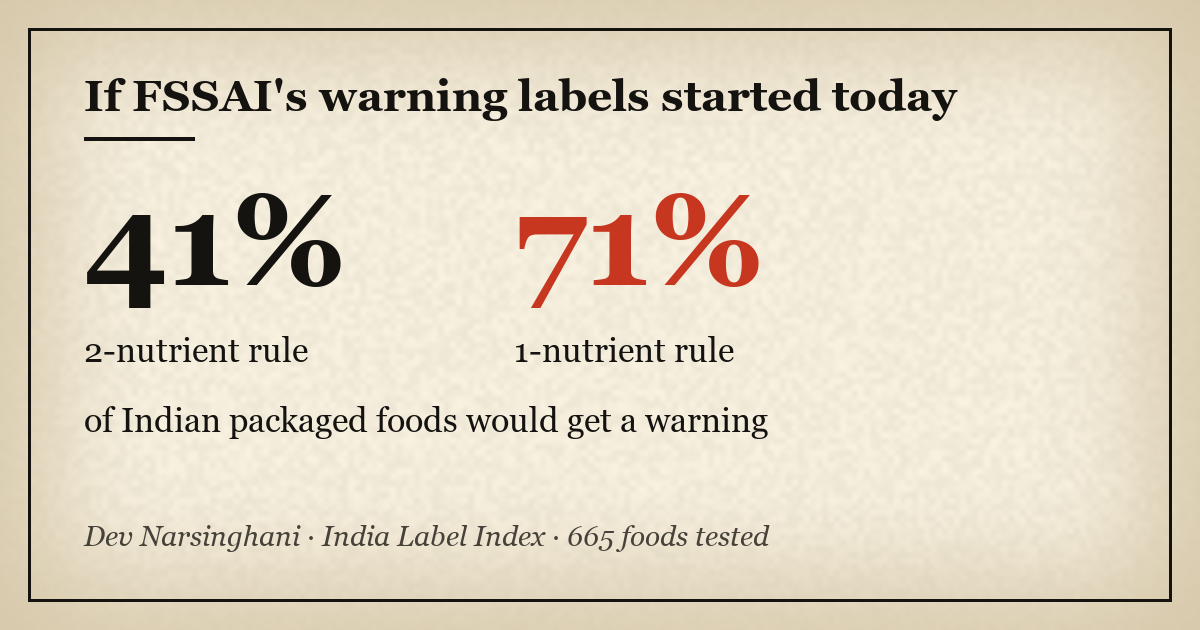
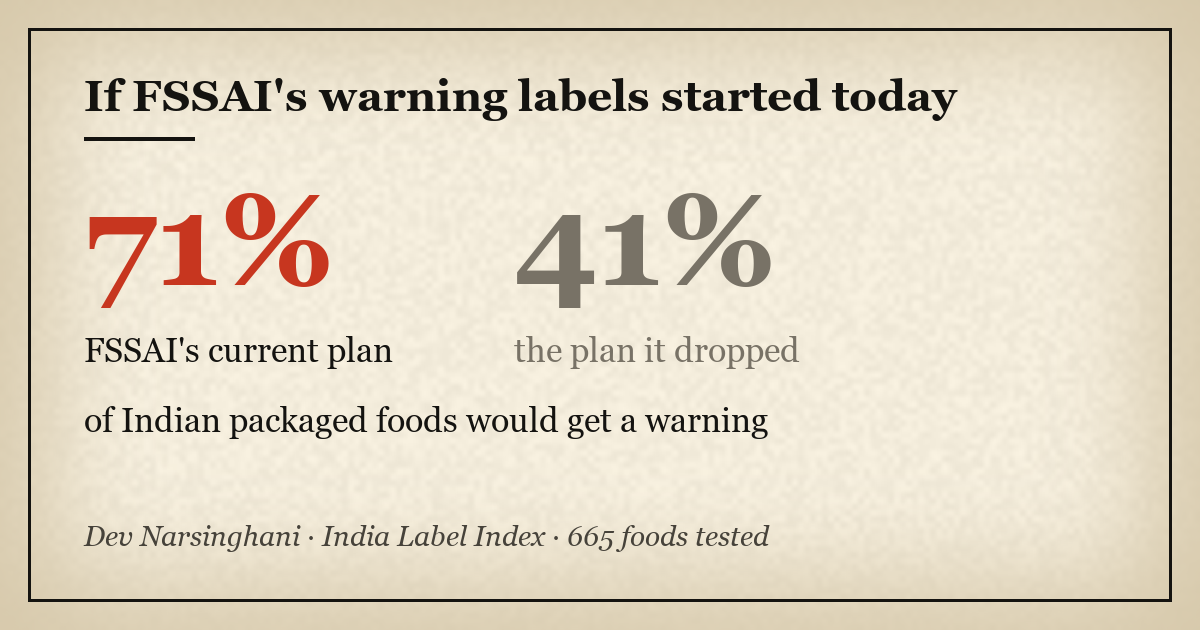
Study 3: reframe on FSSAI's 23 Sep single-nutrient plan (71% now, 41% under the dropped plan)

diff --git a/india-label-index/fssai-warning-labels/index.html b/india-label-index/fssai-warning-labels/index.html
@@ -4,19 +4,19 @@
 <meta charset="utf-8">
 <meta name="viewport" content="width=device-width, initial-scale=1">
 <title>If FSSAI's warning labels started today | India Label Index</title>
-<meta name="description" content="Under Phase I, where a food needs 2 or more high nutrients, 41% of the 665 foods I tested would get a warning. Under Phase II, where 1 high nutrient is enough, 71% would.">
+<meta name="description" content="71% of the 665 foods I tested. That is under FSSAI&#x27;s current plan, where a food high in any one of added sugar, added fat or salt gets the warning. Under its first plan, which needed 2 or more, it would have been 41%.">
 <meta name="author" content="Dev Narsinghani">
 <link rel="canonical" href="https://devnarsinghani22.github.io/india-label-index/fssai-warning-labels/">
 <meta property="og:type" content="article">
 <meta property="og:site_name" content="Dev Narsinghani">
 <meta property="og:locale" content="en_IN">
-<meta property="og:title" content="If FSSAI&#x27;s warning labels started today: the 2-nutrient rule would warn on 41% of packaged foods, the 1-nutrient rule on 71%">
-<meta property="og:description" content="Under Phase I, where a food needs 2 or more high nutrients, 41% of the 665 foods I tested would get a warning. Under Phase II, where 1 high nutrient is enough, 71% would.">
+<meta property="og:title" content="If FSSAI&#x27;s warning labels started today: 7 in 10 Indian packaged foods would carry a warning">
+<meta property="og:description" content="71% of the 665 foods I tested. That is under FSSAI&#x27;s current plan, where a food high in any one of added sugar, added fat or salt gets the warning. Under its first plan, which needed 2 or more, it would have been 41%.">
 <meta property="og:url" content="https://devnarsinghani22.github.io/india-label-index/fssai-warning-labels/">
 <meta property="og:image" content="https://devnarsinghani22.github.io/india-label-index/fssai-warning-labels/og.png">
 <meta property="og:image:width" content="1200">
 <meta property="og:image:height" content="630">
-<meta property="og:image:alt" content="If FSSAI&#x27;s warning labels started today. the 2-nutrient rule would warn on 41% of packaged foods, the 1-nutrient rule on 71%.">
+<meta property="og:image:alt" content="If FSSAI&#x27;s warning labels started today. 7 in 10 Indian packaged foods would carry a warning.">
 <meta property="article:published_time" content="2026-10-01T09:00:00+05:30">
 <style>
 .stats{display:grid;grid-template-columns:repeat(auto-fit,minmax(150px,1fr));gap:12px;margin:24px 0}
@@ -36,8 +36,8 @@ table.data th:first-child,table.data td:first-child{text-align:left;white-space:
 .cite{border-left:3px solid var(--acc);padding:8px 14px;font:14px/1.5 system-ui,sans-serif}
 </style>
 <meta name="twitter:card" content="summary_large_image">
-<meta name="twitter:title" content="If FSSAI&#x27;s warning labels started today: the 2-nutrient rule would warn on 41% of packaged foods, the 1-nutrient rule on 71%">
-<meta name="twitter:description" content="Under Phase I, where a food needs 2 or more high nutrients, 41% of the 665 foods I tested would get a warning. Under Phase II, where 1 high nutrient is enough, 71% would.">
+<meta name="twitter:title" content="If FSSAI&#x27;s warning labels started today: 7 in 10 Indian packaged foods would carry a warning">
+<meta name="twitter:description" content="71% of the 665 foods I tested. That is under FSSAI&#x27;s current plan, where a food high in any one of added sugar, added fat or salt gets the warning. Under its first plan, which needed 2 or more, it would have been 41%.">
 <meta name="twitter:image" content="https://devnarsinghani22.github.io/india-label-index/fssai-warning-labels/og.png">
 <link rel="icon" href="/favicon.ico" sizes="32x32">
 <link rel="icon" href="/favicon.svg" type="image/svg+xml">
@@ -51,7 +51,7 @@ table.data th:first-child,table.data td:first-child{text-align:left;white-space:
     {
       "@type": "Article",
       "@id": "https://devnarsinghani22.github.io/india-label-index/fssai-warning-labels/#article",
-      "headline": "If FSSAI's warning labels started today: the 2-nutrient rule would warn on 41% of packaged foods, the 1-nutrient rule on 71%",
+      "headline": "If FSSAI's warning labels started today: 7 in 10 Indian packaged foods would carry a warning",
       "url": "https://devnarsinghani22.github.io/india-label-index/fssai-warning-labels/",
       "mainEntityOfPage": {
         "@type": "WebPage",
@@ -78,7 +78,8 @@ table.data th:first-child,table.data td:first-child{text-align:left;white-space:
       },
       "citation": [
         "https://www.livelaw.in/amp/top-stories/adopting-canadian-model-on-warning-labels-for-packaged-foods-high-in-fat-sugar-or-salt-fssai-informs-supreme-court-551972",
-        "https://www.business-standard.com/india-news/sc-seeks-fssai-clarity-on-ultra-processed-foods-fopl-nutrient-thresholds-126091101217_1.html"
+        "https://www.business-standard.com/india-news/sc-seeks-fssai-clarity-on-ultra-processed-foods-fopl-nutrient-thresholds-126091101217_1.html",
+        "https://theprint.in/health/fssai-tells-sc-it-will-introduce-front-of-pack-warnings-in-single-phase-gives-food-firms-1-yr-to-comply/3051546/"
       ],
       "about": [
         "Front-of-pack nutrition labelling in India",
@@ -97,20 +98,20 @@ table.data th:first-child,table.data td:first-child{text-align:left;white-space:
           "name": "How many Indian packaged foods would get FSSAI's proposed warning?",
           "acceptedAnswer": {
             "@type": "Answer",
-            "text": "Under Phase I, where a food needs 2 or more high nutrients, 41% of the 665 foods I tested would get a warning. Under Phase II, where 1 high nutrient is enough, 71% would."
+            "text": "71% of the 665 foods I tested. That is under FSSAI's current plan, where a food high in any one of added sugar, added fat or salt gets the warning. Under its first plan, which needed 2 or more, it would have been 41%."
           }
         },
         {
           "@type": "Question",
-          "name": "What does the 2-nutrient rule miss?",
+          "name": "What did the switch to a single nutrient change?",
           "acceptedAnswer": {
             "@type": "Answer",
-            "text": "About 30 in every 100 packaged foods are high in one of added sugar, added fat or salt but would carry no warning in Phase I. Soft drinks are the clearest case: 69% are high in added sugar, but only 3% would get a warning, because sugar is their only high nutrient."
+            "text": "It added about 30 in every 100 packaged foods: the ones high in just one thing. Soft drinks are the clearest case: 69% are high in added sugar, but only 3% would have been warned under the 2-nutrient plan, because sugar is their only high nutrient."
           }
         },
         {
           "@type": "Question",
-          "name": "Which foods change most between the two rules?",
+          "name": "Which foods change most between the two plans?",
           "acceptedAnswer": {
             "@type": "Answer",
             "text": "Foods that are high in just one thing. Soft drinks go from 3% to 69%. Yoghurt and curd go from 3% to 38%. Biscuits and chips barely change, because most are already high in two things."
@@ -167,27 +168,27 @@ table.data th:first-child,table.data td:first-child{text-align:left;white-space:
   <article class="guide">
     <p class="meta"><a href="https://devnarsinghani22.github.io/india-label-index/">India Label Index 2026</a> / FSSAI warning labels</p>
     <h1>If FSSAI's warning labels started today</h1>
-    <p class="dek">FSSAI wants red warnings on packaged food that is high in added sugar, added fat or salt. First only when 2 of them are high, later when any 1 is. The Supreme Court asked whether 2 is too many. So I ran both rules on Indian labels.</p>
+    <p class="dek">FSSAI wants red warnings on packaged food high in added sugar, added fat or salt. It first proposed a warning only when 2 were high. After the Supreme Court asked why, it said on 23 September that 1 is enough. I ran both on Indian labels.</p>
     <p class="byline">By <a href="/" rel="author">Dev Narsinghani</a>. He writes about food labels, sleep and AI for marketing.</p>
     <p class="meta">Published <time datetime="2026-10-01">1 October 2026</time> · 665 Indian packaged foods with a full nutrition table and ingredient list</p>
     <div class="body">
     <div class="stats">
-<div class="stat"><b>41%</b><span>would get a warning under Phase I (2 or more nutrients high)</span></div>
-<div class="stat"><b>71%</b><span>would get one under Phase II (any 1 nutrient high)</span></div>
-<div class="stat"><b>3%</b><span>of soft drinks would get one in Phase I, though 69% are high in added sugar</span></div>
+<div class="stat"><b>71%</b><span>would carry a warning under FSSAI's current plan (any 1 nutrient high)</span></div>
+<div class="stat"><b>41%</b><span>under the plan it dropped on 23 September (2 or more high)</span></div>
+<div class="stat"><b>3% to 69%</b><span>of soft drinks warned, old plan to new plan</span></div>
     </div>
     <h2 id="answers">Quick answers</h2>
 <h3>How many Indian packaged foods would get FSSAI's proposed warning?</h3>
-<p>Under Phase I, where a food needs 2 or more high nutrients, 41% of the 665 foods I tested would get a warning. Under Phase II, where 1 high nutrient is enough, 71% would.</p>
-<h3>What does the 2-nutrient rule miss?</h3>
-<p>About 30 in every 100 packaged foods are high in one of added sugar, added fat or salt but would carry no warning in Phase I. Soft drinks are the clearest case: 69% are high in added sugar, but only 3% would get a warning, because sugar is their only high nutrient.</p>
-<h3>Which foods change most between the two rules?</h3>
+<p>71% of the 665 foods I tested. That is under FSSAI's current plan, where a food high in any one of added sugar, added fat or salt gets the warning. Under its first plan, which needed 2 or more, it would have been 41%.</p>
+<h3>What did the switch to a single nutrient change?</h3>
+<p>It added about 30 in every 100 packaged foods: the ones high in just one thing. Soft drinks are the clearest case: 69% are high in added sugar, but only 3% would have been warned under the 2-nutrient plan, because sugar is their only high nutrient.</p>
+<h3>Which foods change most between the two plans?</h3>
 <p>Foods that are high in just one thing. Soft drinks go from 3% to 69%. Yoghurt and curd go from 3% to 38%. Biscuits and chips barely change, because most are already high in two things.</p>
 <h3>Which nutrient is high most often?</h3>
 <p>Added sugar, in 45% of foods. Added fat is high in 43% and salt in 33%.</p>
 <h3>What limits does FSSAI propose?</h3>
 <p>FSSAI told the Supreme Court it would use the ICMR-NIN 2024 limits. For a solid food, per 100 g: 3 g added sugar, 4.2 g added fat, 625 mg salt. For a drink, per 100 ml: 2 g, 1.5 g and 175 mg.</p>
-    <figure class="chart"><figcaption><strong>Share that would get a warning once any 1 high nutrient is enough (Phase II)</strong></figcaption><svg class="bars" viewBox="0 0 640 248" role="img" aria-label="Share of products high in at least one of added sugar, added fat or salt under FSSAI&#x27;s proposed limits, by category" preserveAspectRatio="xMinYMin meet">
+    <figure class="chart"><figcaption><strong>Share that would carry a warning under FSSAI's current plan (any 1 nutrient high)</strong></figcaption><svg class="bars" viewBox="0 0 640 248" role="img" aria-label="Share of products high in at least one of added sugar, added fat or salt under FSSAI&#x27;s proposed limits, by category" preserveAspectRatio="xMinYMin meet">
 <g><title>Biscuits and cookies: 98% (from 55 products)</title><text x="240" y="19.4" text-anchor="end" class="lbl">Biscuits and cookies</text><rect x="250" y="4" width="323.4" height="22" rx="4" class="bar"/><text x="579.4" y="19.4" class="val">98%</text></g>
 <g><title>Chocolate and confectionery: 96% (from 48 products)</title><text x="240" y="49.4" text-anchor="end" class="lbl">Chocolate and confectionery</text><rect x="250" y="34" width="316.8" height="22" rx="4" class="bar"/><text x="572.8" y="49.4" class="val">96%</text></g>
 <g><title>Chips and crisps: 94% (from 34 products)</title><text x="240" y="79.4" text-anchor="end" class="lbl">Chips and crisps</text><rect x="250" y="64" width="310.2" height="22" rx="4" class="bar"/><text x="566.2" y="79.4" class="val">94%</text></g>
@@ -197,8 +198,8 @@ table.data th:first-child,table.data td:first-child{text-align:left;white-space:
 <g><title>Yoghurt and curd: 38% (from 90 products)</title><text x="240" y="199.4" text-anchor="end" class="lbl">Yoghurt and curd</text><rect x="250" y="184" width="125.4" height="22" rx="4" class="bar"/><text x="381.4" y="199.4" class="val">38%</text></g>
 <g><title>Flours, grains and pulses: 22% (from 32 products)</title><text x="240" y="229.4" text-anchor="end" class="lbl">Flours, grains and pulses</text><rect x="250" y="214" width="72.6" height="22" rx="4" class="bar"/><text x="328.6" y="229.4" class="val">22%</text></g>
 </svg><p class="meta">Categories with at least 30 products that could be tested. From 665 foods in all.</p></figure>
-    <h2 id="phases">Phase I against Phase II, by category</h2>
-    <div class="tablewrap"><table class="data"><tr><th>Category</th><th>Foods tested</th><th>Phase I (2+ high)</th><th>Phase II (any 1 high)</th></tr>
+    <h2 id="phases">Old plan against current plan, by category</h2>
+    <div class="tablewrap"><table class="data"><tr><th>Category</th><th>Foods tested</th><th>Dropped plan (2+ high)</th><th>Current plan (any 1 high)</th></tr>
 <tr><td>Biscuits and cookies</td><td>55</td><td>93%</td><td>98%</td></tr>
 <tr><td>Chocolate and confectionery</td><td>48</td><td>79%</td><td>96%</td></tr>
 <tr><td>Chips and crisps</td><td>34</td><td>91%</td><td>94%</td></tr>
@@ -219,7 +220,8 @@ table.data th:first-child,table.data td:first-child{text-align:left;white-space:
     <p>Added sugar is the number the label itself declares; Indian labels must print it, and 682 of the foods had it. Where it was missing, I used total sugar, but only if a sugar was in the ingredient list. Added fat is total fat when an oil or fat is in the list. Salt counts when salt is in the list. Oils, ghee, flours, spices and tea are left out, as FSSAI exempts single-ingredient and naturally fat-rich foods.</p>
     <h2 id="limits">What this can't tell you</h2>
     <ul>
-      <li>The final rule is not out. The court reserved its order on 28 September 2026, and the limits or phases may change.</li>
+      <li>The final rule is not out. FSSAI told the court it needs about 4 months to finalise it, then gives companies a year (<a href="https://theprint.in/health/fssai-tells-sc-it-will-introduce-front-of-pack-warnings-in-single-phase-gives-food-firms-1-yr-to-comply/3051546/">ThePrint</a>). The court reserved its order on 28 September 2026, and the limits may change.</li>
+      <li>FSSAI also plans to cover some sweetened drinks by type, whatever their numbers. This study uses the nutrient limits only.</li>
       <li>Labels show total fat, not added fat, so the fat numbers are an upper estimate.</li>
       <li>The data is from <a href="https://world.openfoodfacts.org/">Open Food Facts</a>, filled in by volunteers. Only 665 Indian foods had every number needed, so treat category numbers as rough.</li>
       <li>It covers categories, not brands, and rates no product.</li>

diff --git a/work-with-me/index.html b/work-with-me/index.html
@@ -140,7 +140,7 @@ table.data th:first-child,table.data td:first-child{text-align:left;white-space:
     <ul>
       <li>Chief of Staff to Revant Himatsingka at Food Pharmer, and founding team at Only What's Needed (OWN).</li>
       <li>Built the <a href="https://devnarsinghani22.github.io/india-label-index/">India Label Index</a>: open data on 3,798 Indian packaged-food ingredient lists. 6 in 10 list an added sugar.</li>
-      <li>Ran FSSAI's proposed warning limits on 665 foods: <a href="https://devnarsinghani22.github.io/india-label-index/fssai-warning-labels/">41% would be warned in Phase I, 71% in Phase II</a>.</li>
+      <li>Ran FSSAI's proposed warning limits on 665 foods: <a href="https://devnarsinghani22.github.io/india-label-index/fssai-warning-labels/">71% would carry a warning under its current plan</a>, against 41% under the plan it dropped.</li>
       <li>Built the free <a href="/tools/label-checker/">Label Checker</a>: paste a label, scan a barcode or snap a photo.</li>
       <li>Studied 900 LinkedIn posts from 9 health voices to learn what makes people act on health advice.</li>
       <li>Before that: Indus Insights (analytics), Grant Thornton Bharat (NHAI team), Sploot (founder's office). SRCC, Delhi.</li>
